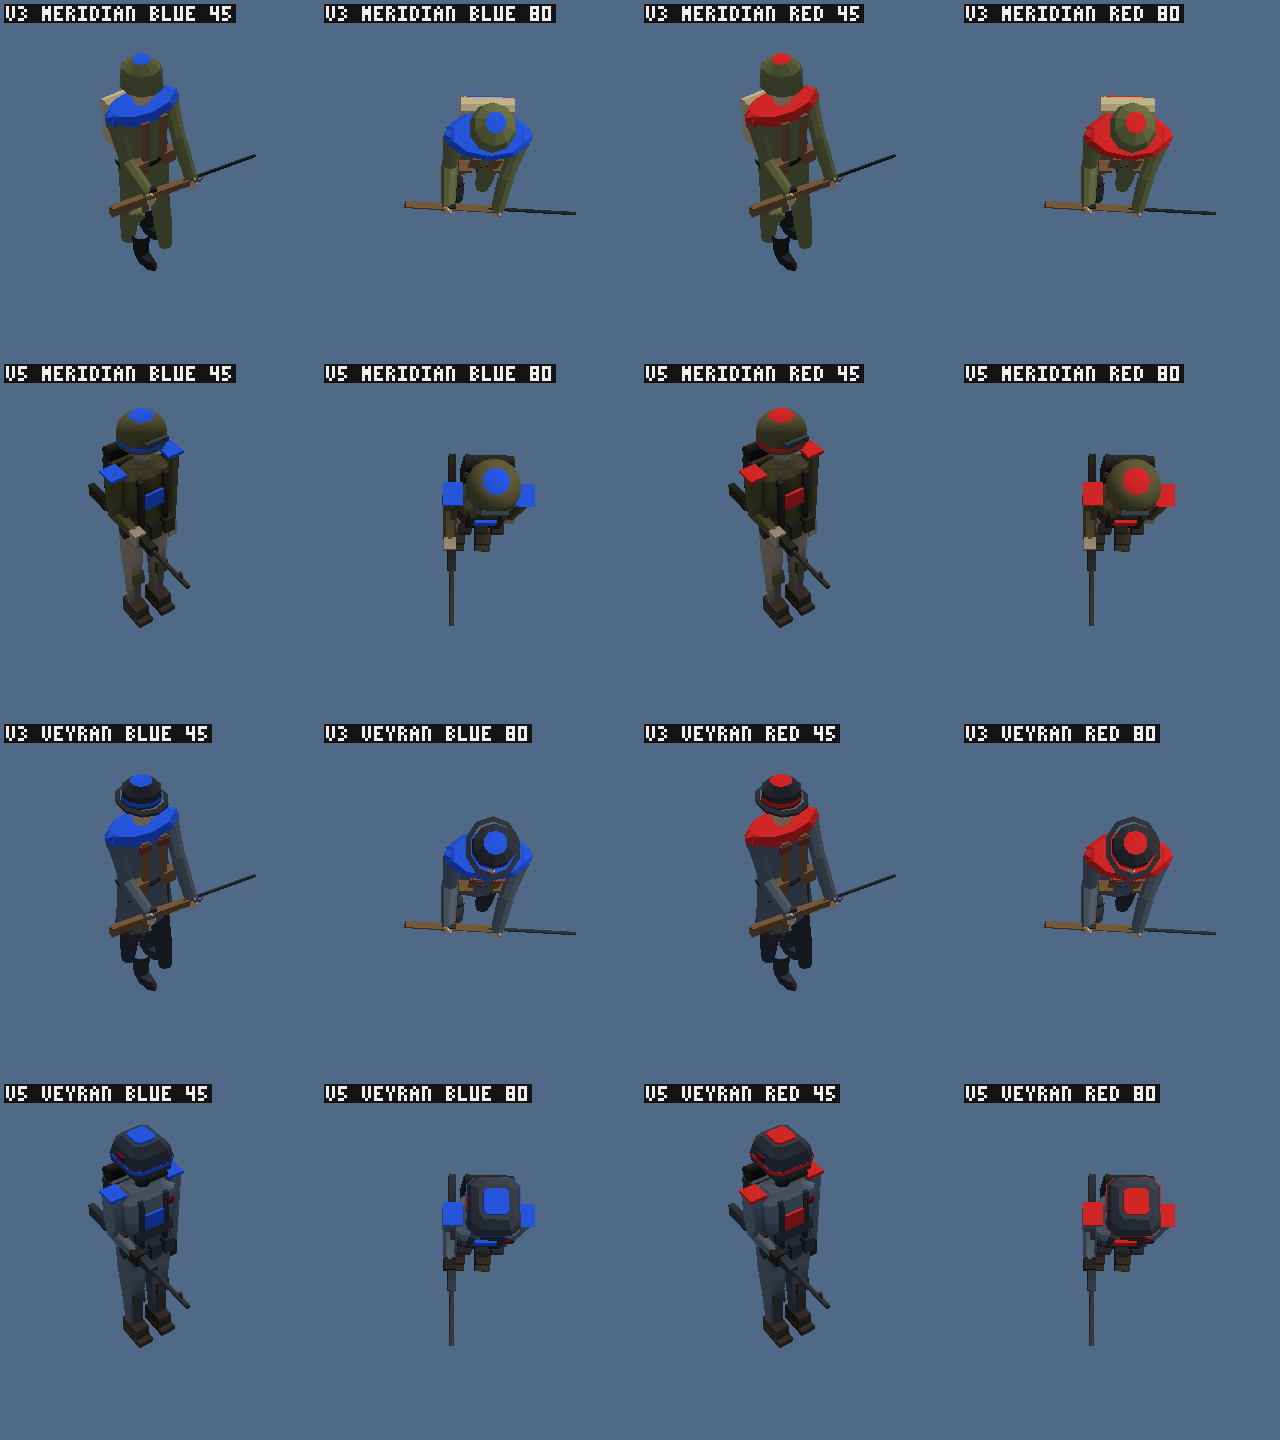
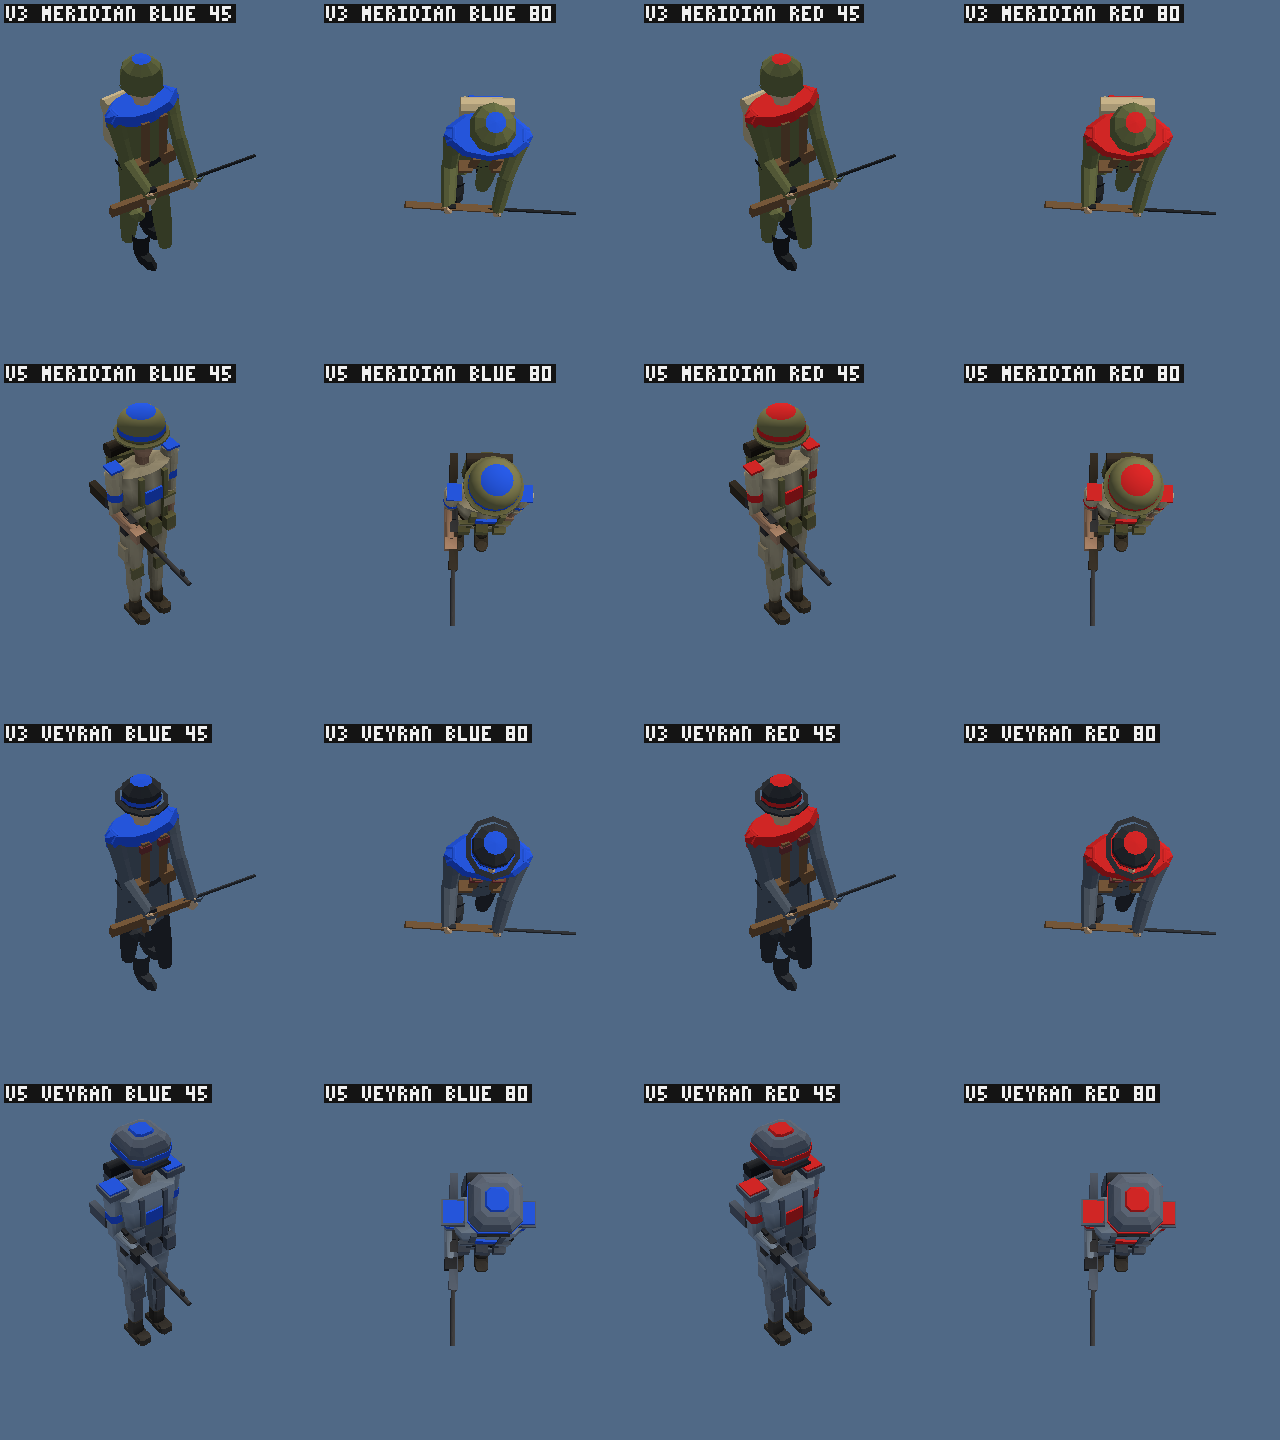
WP11.6i round 2 WIP: pins, section test, lod strip
Claude-Session: https://claude.ai/code/session_01E9comaZi2PE6iTmoHWTfFn

diff --git a/crates/sf_render/tests/figure_shots.rs b/crates/sf_render/tests/figure_shots.rs
@@ -96,6 +96,7 @@ fn glyph(c: char) -> [u8; 5] {
         'U' => [5, 5, 5, 5, 7],
         'V' => [5, 5, 5, 5, 2],
         'W' => [5, 5, 7, 7, 5],
+        'X' => [5, 5, 2, 5, 5],
         'Y' => [5, 5, 2, 2, 2],
         '0' => [7, 5, 5, 5, 7],
         '1' => [2, 6, 2, 2, 7],
@@ -300,9 +301,51 @@ fn the_trial_figure_pictures_are_rendered_and_written_on_request() {
         );
     }
 
+    // lod_strip (round 2): each new figure at LOD0, LOD1 and LOD2, each level once large (to see
+    // its shape) and once at a size the game draws it at: a projected bounding diameter of 75, 45
+    // and 24 px (LOD0 is drawn from 60 px up, LOD1 from 30, LOD2 below 30; DEFAULT_SWITCH_PX).
+    let mut lods = Vec::new();
+    let focal = H as f32 / (2.0 * 15_f32.to_radians().tan());
+    for (fi, faction) in factions.iter().enumerate() {
+        let full = &models[fi * 2 + 1];
+        let diameter = glb::bounds_of(full).diameter();
+        for (n, px) in [(0usize, 75.0_f32), (1, 45.0), (2, 24.0)] {
+            let one = LoadedModel {
+                name: full.name.clone(),
+                levels: vec![full.levels[n].clone()],
+            };
+            let lset = glb::model_set(&[one], &[60.0]).unwrap();
+            let mut inst = Instancer::new(style(), (128.0, 128.0));
+            inst.set_models(lset);
+            let p = cells(at.0, at.1);
+            inst.update_tick([
+                Motion::from_fixed(0, 1, p, p, Facing::new(0), Facing::new(0))
+                    .with_id(UnitId::from_parts(1, 0)),
+            ]);
+            for (size, d) in [("LARGE", 4.6), ("GAME", diameter * focal / px)] {
+                let vp = view(Vec3::new(at.0 + 0.2, 0.9, at.1), d, 45.0, 35.0);
+                inst.build_frame(
+                    &FrameView::models_only(&Frustum::from_view_proj(vp), 1.0),
+                    |_, _| 0.0,
+                );
+                r.set_view_proj(vp);
+                r.upload_units(&inst);
+                let mut img = r.render_to_image().expect("render");
+                let what = if size == "GAME" {
+                    format!("{} LOD{n} {px:.0} PX", faction.to_uppercase())
+                } else {
+                    format!("{} LOD{n}", faction.to_uppercase())
+                };
+                label(&mut img, &what, 6, 6);
+                lods.push(img);
+            }
+        }
+    }
+
     if let Some(dir) = std::env::var_os("SF_SAVE_SHOTS") {
         let dir = PathBuf::from(dir);
         image::write_png(&dir.join("compare_close.png"), &sheet(&close, 4)).unwrap();
         image::write_png(&dir.join("walk_cycle.png"), &sheet(&walk, 8)).unwrap();
+        image::write_png(&dir.join("lod_strip.png"), &sheet(&lods, 6)).unwrap();
     }
 }

diff --git a/tools/sf_model_gen/tests/infantry.rs b/tools/sf_model_gen/tests/infantry.rs
@@ -176,3 +176,32 @@ fn the_engine_walks_the_new_figures_and_not_the_set_v3_ones() {
         assert!(!set.model(0).walks(), "set v3 {file}");
     }
 }
+
+/// Round 2: no limb is a square post. A horizontal cut through the thigh, the shin and the free
+/// forearm (in the node's own frame, away from pockets and pads) crosses at least 8 sides in LOD0
+/// and 6 in LOD1 (two triangles per side), for both factions.
+#[test]
+fn the_limbs_have_round_or_faceted_sections_not_square_posts() {
+    let sides = |n: &Node, y: i32| -> usize {
+        n.mesh
+            .tris
+            .iter()
+            .filter(|t| {
+                let lo = t.v.iter().map(|p| p[1]).min().unwrap();
+                let hi = t.v.iter().map(|p| p[1]).max().unwrap();
+                lo < y && hi > y
+            })
+            .count()
+            / 2
+    };
+    for (m, _) in figures() {
+        for (level, least) in [(0, 8), (1, 6)] {
+            let root = &m.lods[level];
+            for (node, y) in [("leg_l", -350), ("shin_l", -250), ("arm_l", -420)] {
+                let n = sides(root.find(node).unwrap(), y);
+                println!("{} LOD{level} {node}: {n} sides", m.stem);
+                assert!(n >= least, "{} LOD{level} {node}: {n} sides", m.stem);
+            }
+        }
+    }
+}

diff --git a/tools/sf_model_gen/tests/generator.rs b/tools/sf_model_gen/tests/generator.rs
@@ -511,7 +511,7 @@ const PINNED_UNITS: [(&str, usize, u64); 16] = [
     ("meridian_heavy_tank.glb", 312276, 0x6571e3f651b02903),
     ("meridian_light_transport.glb", 217992, 0xe9090bdeca18f309),
     ("meridian_repair_truck.glb", 242876, 0x323b82afb27c6e92),
-    ("meridian_rifleman.glb", 226756, 0x9c13ca0dc33198c0),
+    ("meridian_rifleman.glb", 481380, 0xa32633be9333cbe3),
     ("meridian_siege_artillery.glb", 308352, 0x456dd572a60a7d98),
     ("neutral_ferry.glb", 208584, 0xae63c9581a0b4ec6),
     ("neutral_supply_truck.glb", 287828, 0x9b6b7bb2c6c0de8e),
@@ -520,7 +520,7 @@ const PINNED_UNITS: [(&str, usize, u64); 16] = [
     ("veyran_heavy_gun_team.glb", 141028, 0xc2ab15873ad394ac),
     ("veyran_heavy_tank.glb", 325028, 0x14b055063773f3ce),
     ("veyran_repair_truck.glb", 240152, 0x1d7f23322dc1e450),
-    ("veyran_rifleman.glb", 181748, 0x4b454362820be176),
+    ("veyran_rifleman.glb", 315192, 0xa392d905e41ed0a0),
     ("veyran_siege_artillery.glb", 307420, 0x5c33861f4163d63d),
     ("veyran_transport_truck.glb", 224872, 0xb84a74fd741234e9),
 ];

diff --git a/tools/sf_model_gen/tests/models.rs b/tools/sf_model_gen/tests/models.rs
@@ -295,8 +295,9 @@ fn buildings_use_their_detail_budget() {
             let least = if state { 200 } else { 1000 };
             assert!((least..=6000).contains(&t[0]), "{}: LOD0 {}", m.stem, t[0]);
         } else if is_infantry(&m.stem) {
-            // A figure is small: 400 triangles in LOD0 keep LOD2 (60 at most) under 15 %.
-            assert!((400..1500).contains(&t[0]), "{}: LOD0 {}", m.stem, t[0]);
+            // A figure is small: 400 triangles in LOD0 keep LOD2 under 15 %; WP11.6i round 2 raised
+            // the infantry budget to 3,000 for the trial riflemen.
+            assert!((400..=3000).contains(&t[0]), "{}: LOD0 {}", m.stem, t[0]);
         } else {
             // WP11.6r: bevels and rounder parts on top of the 1,200 of the tuning round, well
             // under the 4,000 ceiling (the budget is not a target).
